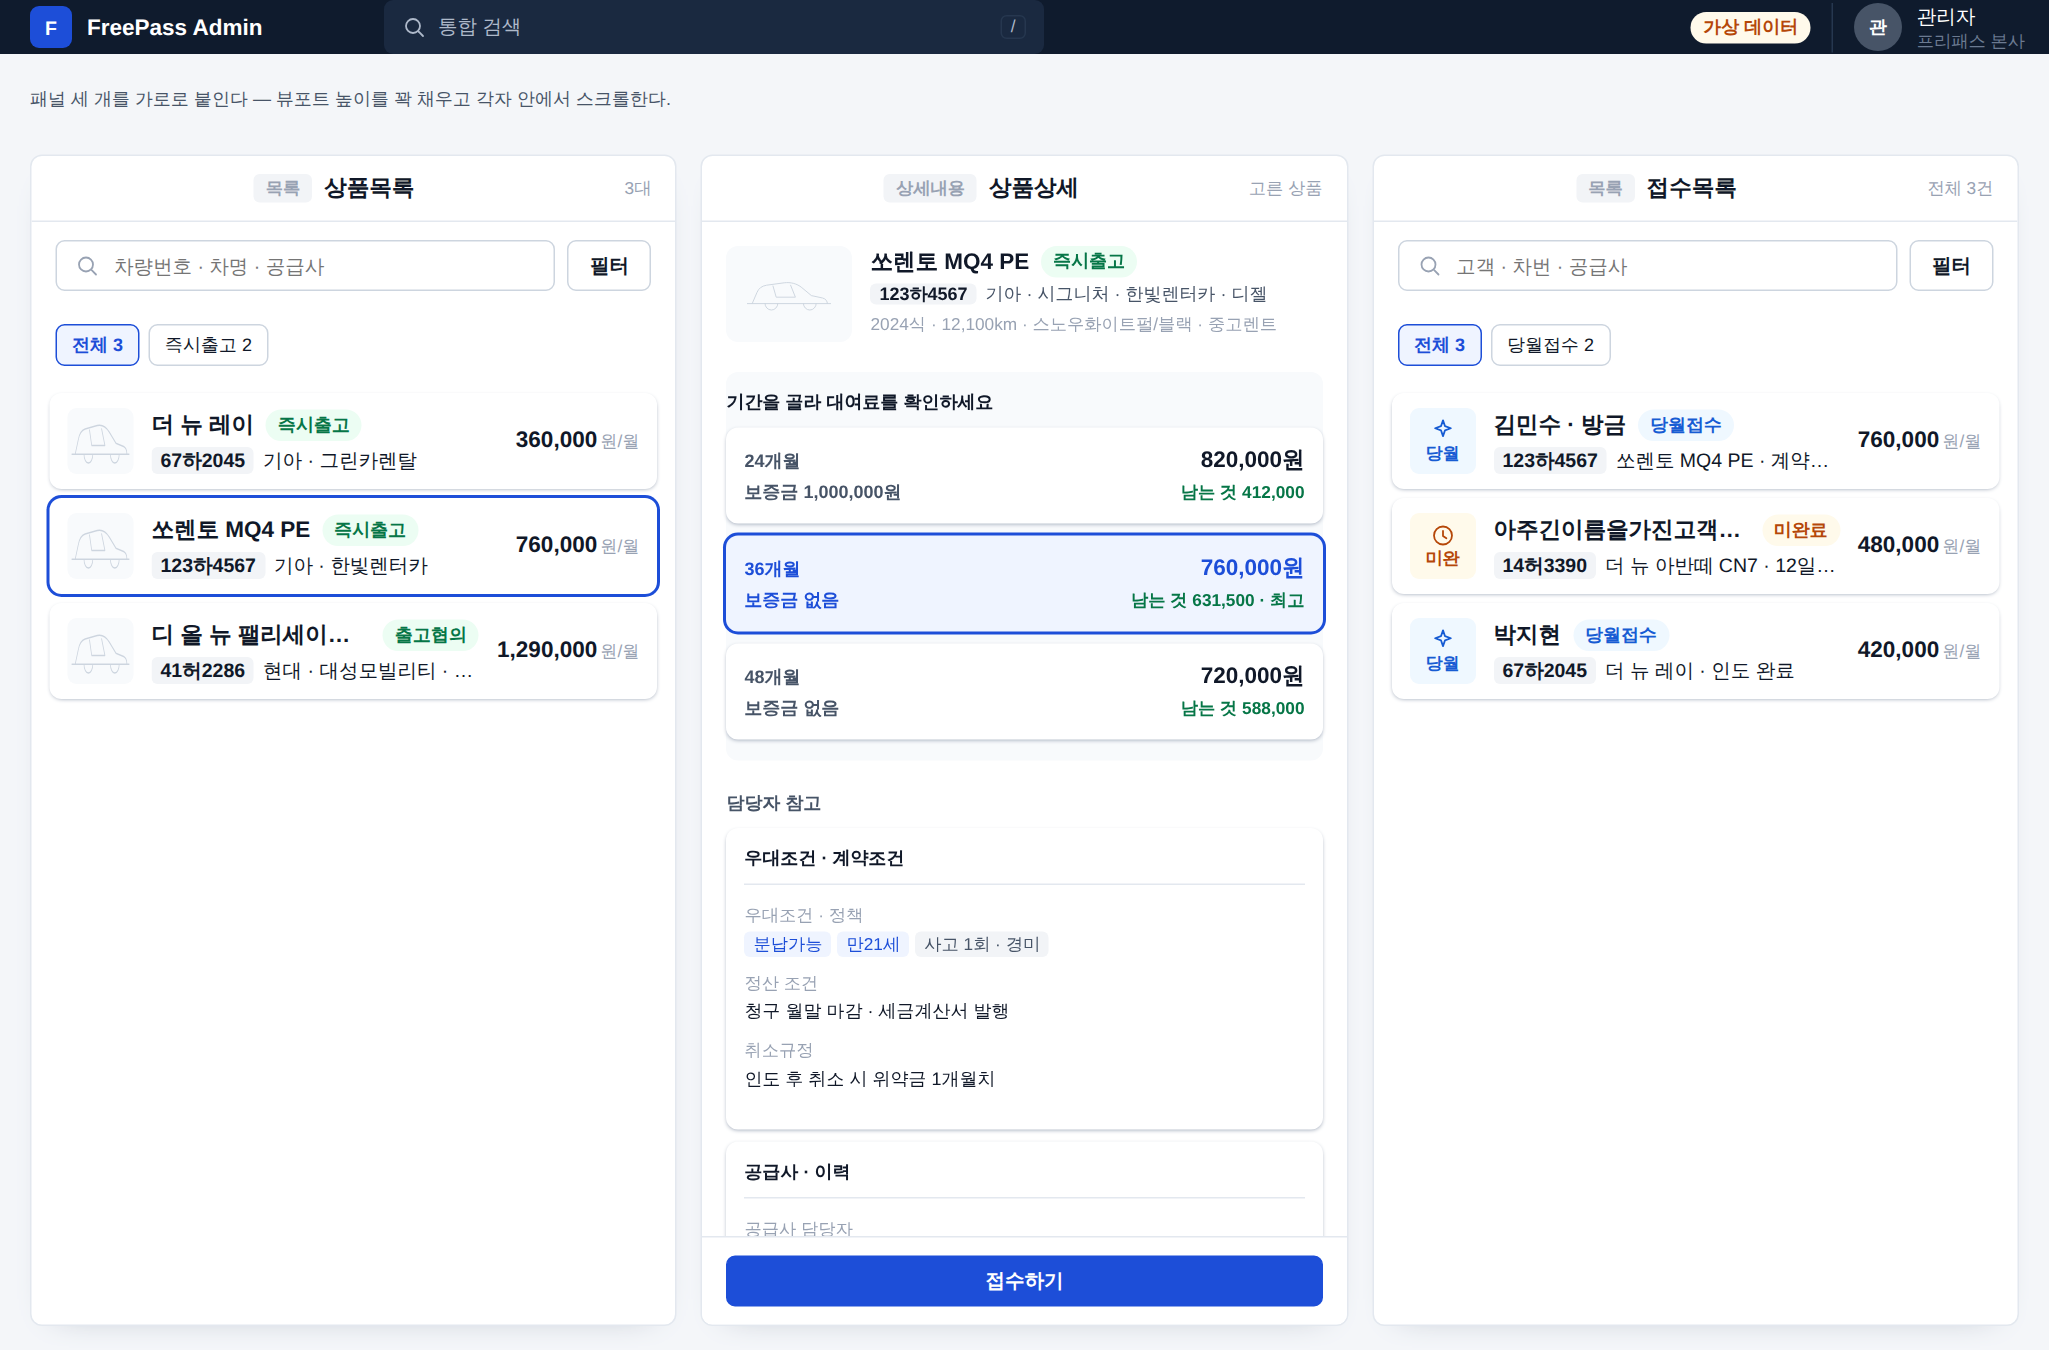
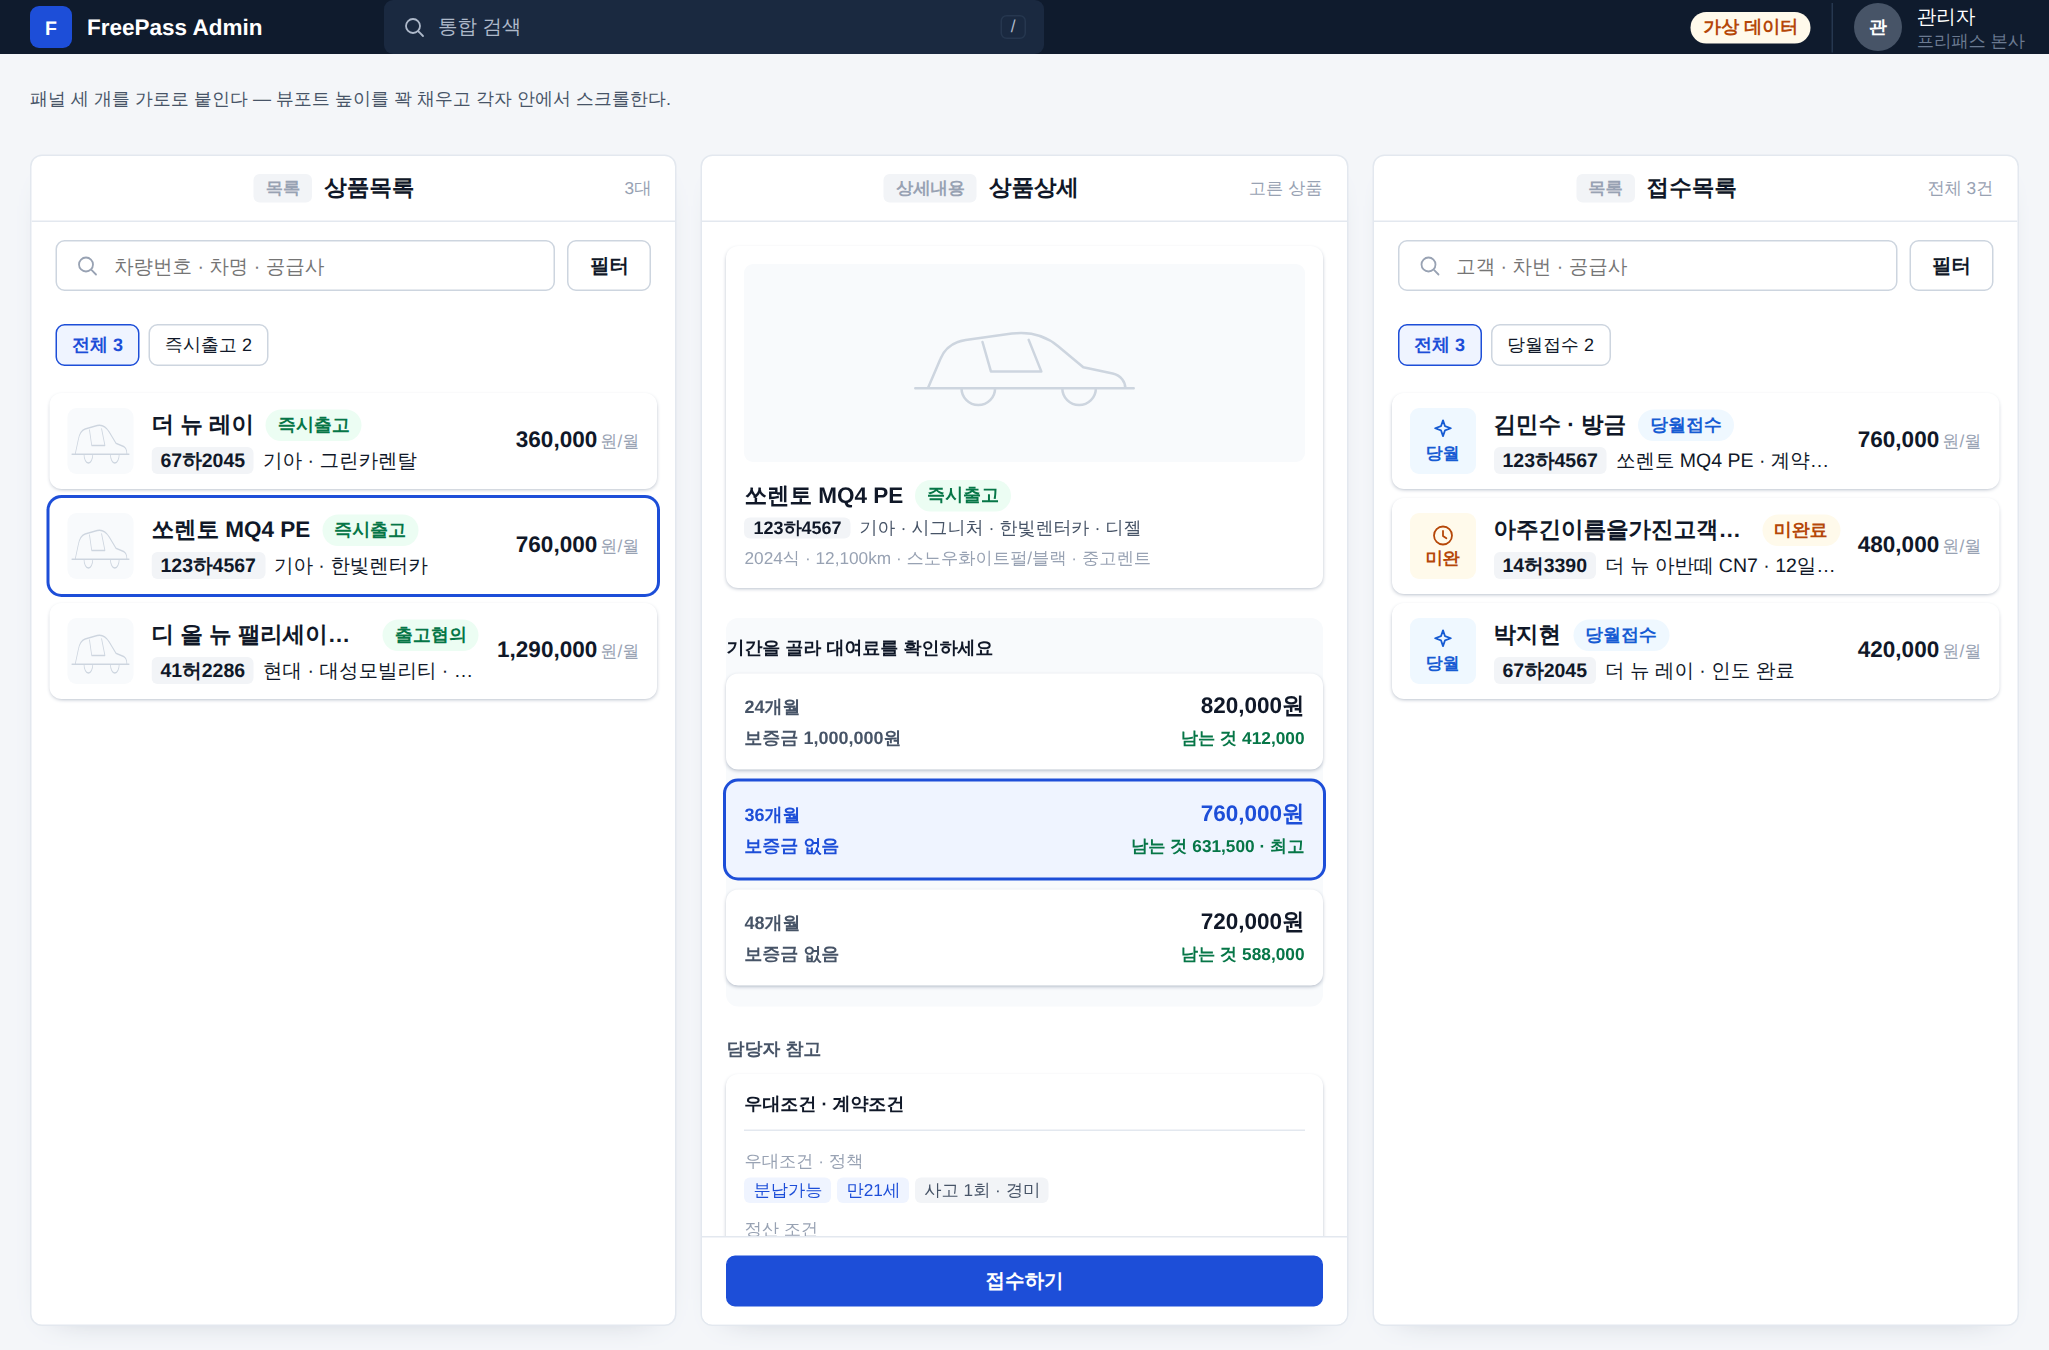
① 차량 정보 영역을 카드로 감싸고 사진을 메인 배너로
대표 2026-09-24: "모든 내용들이 다 카드 안에 담겨야 돼 … 상품 상세 페이지는
차 사진이 메인으로는 있어야 되잖아 차 사진 메인에 그 차를 설명하는 간단한
정보 정도는 들어가야지"

sv-car-brief(작은 사진 + 옆줄 글자)를 sv-car-card로 바꿔 sv-ref-card와 같은
설명하는 카드 규격(패딩·모서리·그림자)을 적용하고, 사진을 카드 폭 전체를
쓰는 132px 배너로 키워 메인으로 세웠다. 이제 상세 패널의 카드 셋(차량 정보·
대여료·담당자 참고)이 전부 동일한 카드 규격을 쓴다.

Claude-Session: https://claude.ai/code/session_01VHqvSXhUy82o1cFFrYMP3F

diff --git a/design/erp-standard/reference/side-by-side.css b/design/erp-standard/reference/side-by-side.css
@@ -8,10 +8,14 @@ body.ref-page { margin: 0; padding: 0; height: 100vh; display: flex; flex-direct
 .ref-note { padding: 10px var(--erp-sp-5) 0; color: var(--erp-color-text-2); font-size: var(--erp-fs-label); }
 .sv-detail-body { display: flex; flex-direction: column; gap: var(--erp-sp-5); padding: var(--erp-sp-4); }
 
-/* ① 차량 정보 — 심플하게(대표 2026-09-24 「차에 대한 정보는 심플하게」): 사진도 작게, 값도 한 줄로 */
-.sv-car-brief { display: flex; gap: var(--erp-sp-3); }
-.sv-car-brief .photo { flex: none; display: grid; place-items: center; width: 84px; height: 64px; border-radius: var(--erp-r-lg); background: var(--erp-color-sunken); color: var(--erp-color-line-strong); }
-.sv-car-brief .photo svg { width: 68px; height: 32px; fill: none; stroke: currentColor; stroke-width: 1.2; }
+/* ① 차량 정보 — 사진이 메인, 그 밑에 심플한 설명(대표 2026-09-24 「모든 내용들이 다 카드 안에 담겨야
+ * 돼 … 차 사진이 메인으로는 있어야 되잖아 차 사진 메인에 그 차를 설명하는 간단한 정보 정도는 들어가야지」).
+ * 예전엔 작은 사진 + 글자가 옆으로 나란한 줄이라 카드 취급이 아니었다 — sv-ref-card 와 같은 설명하는
+ * 카드(B) 규격(패딩 · 모서리 · 그림자)을 그대로 써서 카드 안에 담고, 사진을 카드 폭 전체를 쓰는 배너로
+ * 키워 메인으로 세우고, 그 밑에 이름 · 기본 정보를 심플하게 둔다. */
+.sv-car-card { display: flex; flex-direction: column; gap: var(--erp-sp-3); padding: var(--erp-sp-3); border: 0; border-radius: var(--erp-r-lg); background: var(--erp-color-surface); box-shadow: 0 1px 3px -1px var(--erp-color-text-3); }
+.sv-car-card .photo { display: grid; place-items: center; height: 132px; border-radius: var(--erp-r-md); background: var(--erp-color-sunken); color: var(--erp-color-line-strong); }
+.sv-car-card .photo svg { width: 180px; height: 84px; fill: none; stroke: currentColor; stroke-width: 1.2; }
 .sv-detail-info { min-width: 0; }
 .sv-detail-info .name { display: flex; align-items: center; gap: var(--erp-sp-2); margin: 0; font-size: var(--erp-fs-section); font-weight: var(--erp-fw-bold); color: var(--erp-color-text); flex-wrap: wrap; }
 .sv-detail-info .sub { margin: 3px 0 0; color: var(--erp-color-text-2); font-size: var(--erp-fs-label); }

diff --git a/design/erp-standard/reference/side-by-side.html b/design/erp-standard/reference/side-by-side.html
@@ -52,8 +52,10 @@
     <div class="erp-panel-head"><span class="erp-panel-kind">상세내용</span><h2>상품상세</h2><span>고른 상품</span></div>
     <div class="erp-panel-body">
       <div class="sv-detail-body">
-        <!-- ① 차량 정보 — 심플하게, 참고용 (대표 2026-09-24 「차에 대한 정보는 심플하게」) -->
-        <div class="sv-car-brief">
+        <!-- ① 차량 정보 — 차 사진이 메인, 그 밑에 심플한 설명 (대표 2026-09-24 「차 사진이 메인으로는
+             있어야 되잖아 차 사진 메인에 그 차를 설명하는 간단한 정보 정도는 들어가야지」). 다른 카드와
+             똑같은 설명하는 카드(B) 규격 — 좌우 패딩 · 모서리 · 그림자가 sv-ref-card 와 동일하다. -->
+        <div class="sv-car-card">
           <div class="photo"><svg viewBox="0 0 120 60" aria-hidden="true"><path d="M8 42h104M14 42l6-14c2-5 6-8 12-9l22-3c8-1 16 1 22 6l12 10 14 3c4 1 6 4 6 7M30 42a8 8 0 1 0 16 0M78 42a8 8 0 1 0 16 0M40 20l4 14h24l-6-15"/></svg></div>
           <div class="sv-detail-info">
             <h2 class="name">쏘렌토 MQ4 PE <span class="erp-badge erp-badge--ok">즉시출고</span></h2>
